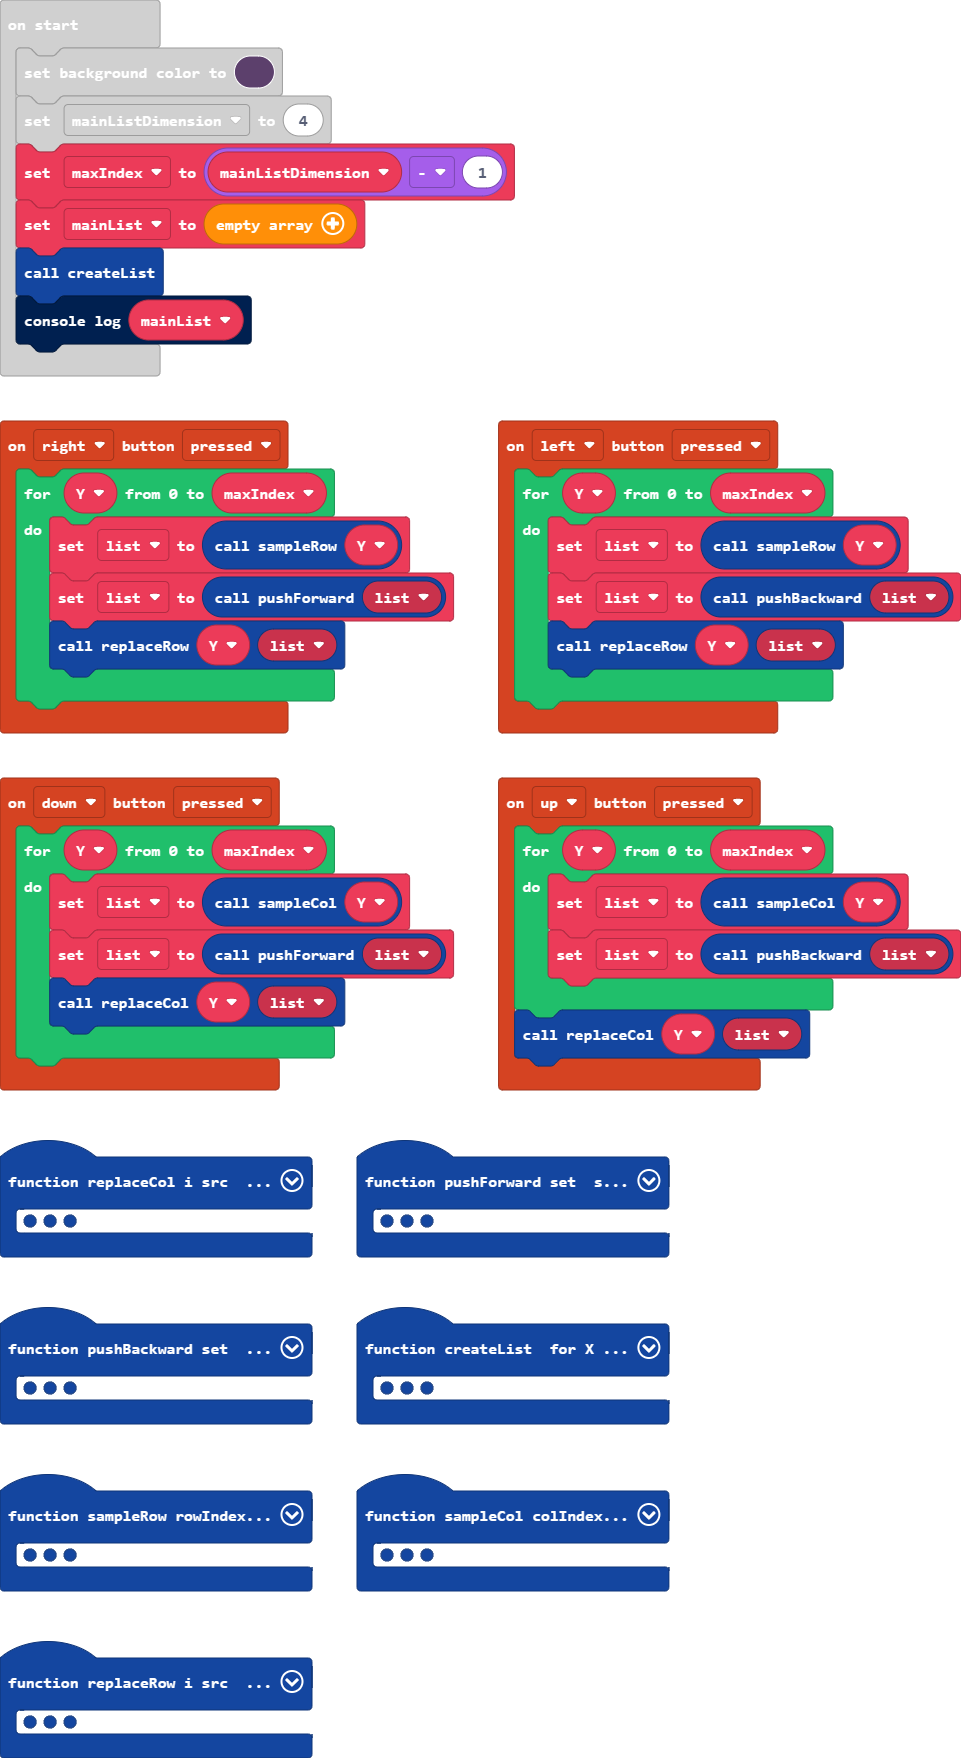
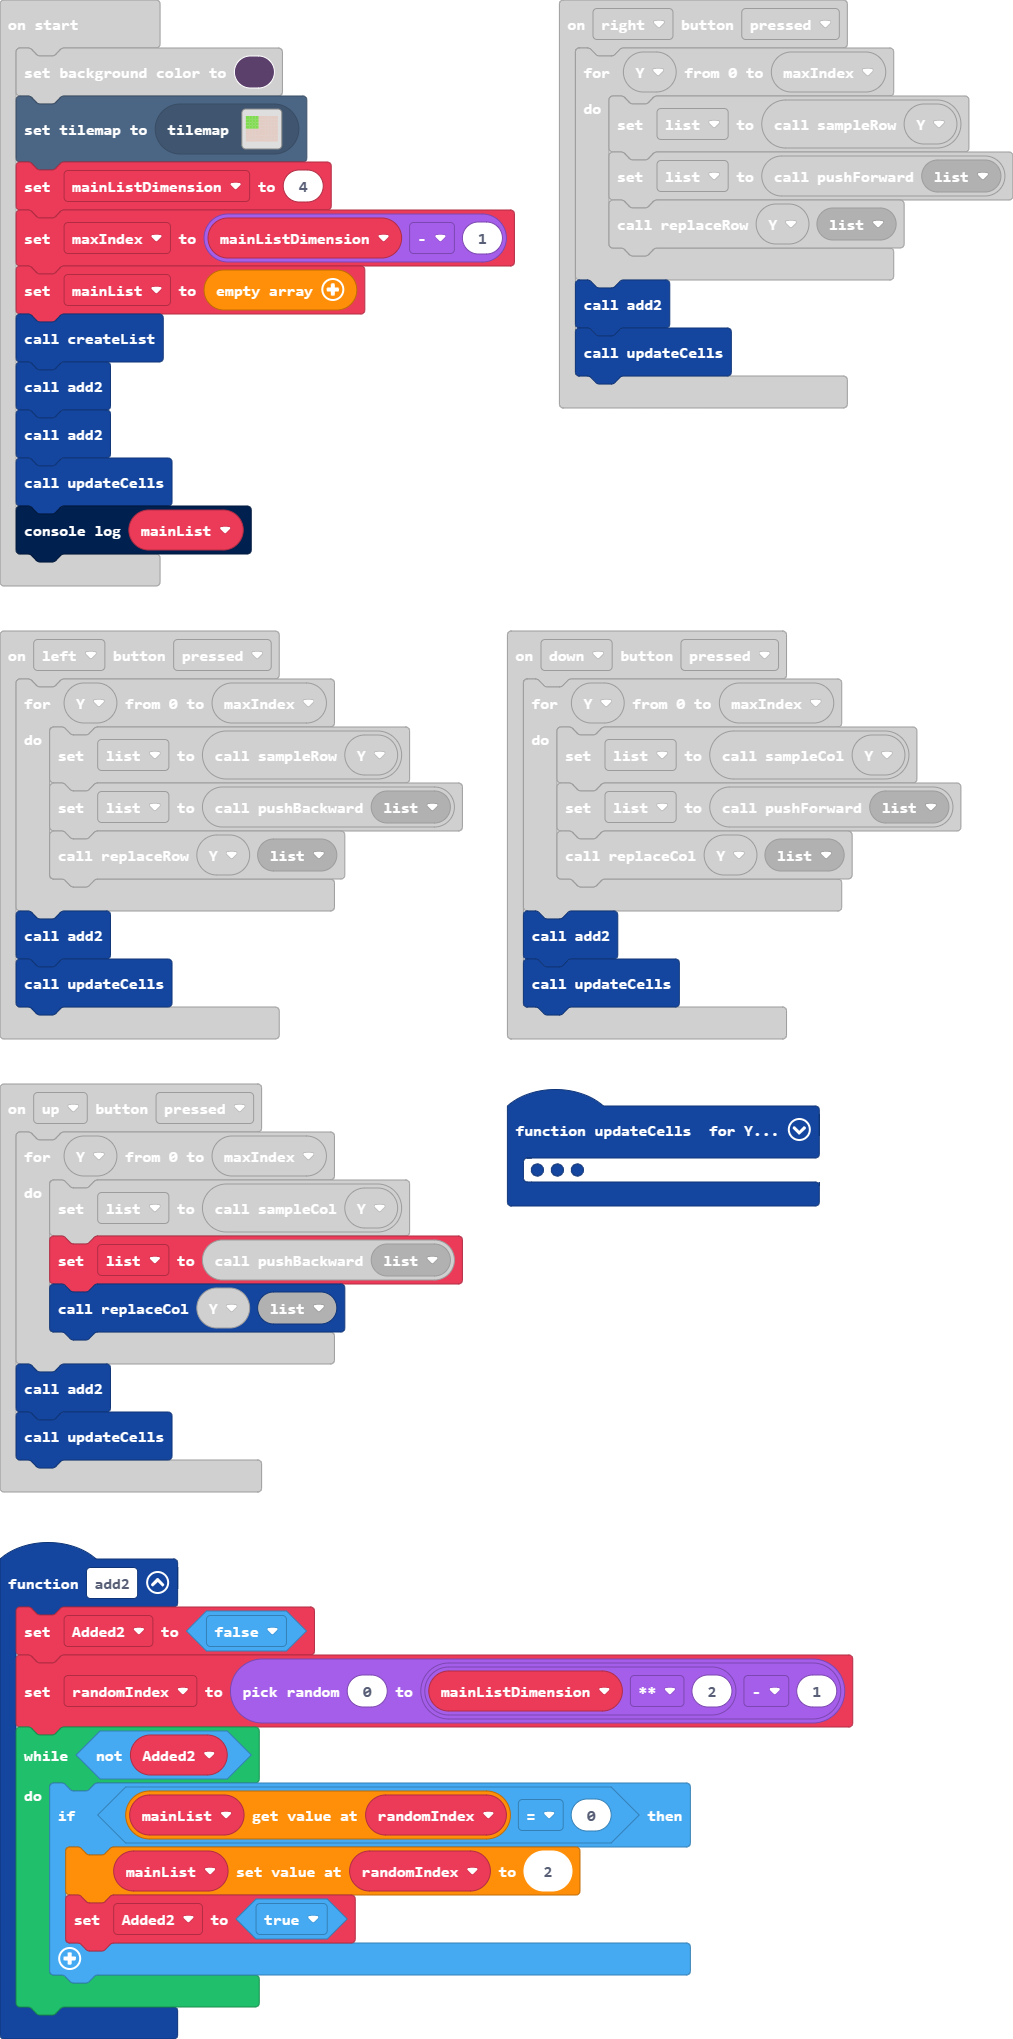
Update pxt.json, main.blocks, main.ts, tilemap.g.jres, tilemap.g.ts

diff --git a/main.ts b/main.ts
@@ -1,10 +1,11 @@
 controller.up.onEvent(ControllerButtonEvent.Pressed, function () {
-    let Y = 0
     for (let Y = 0; Y <= maxIndex; Y++) {
         list = sampleCol(Y)
         list = pushBackward(list)
+        replaceCol(Y, list)
     }
-    replaceCol(Y, list)
+    add2()
+    updateCells()
 })
 function replaceCol (i: number, src: number[]) {
     for (let Y = 0; Y <= maxIndex; Y++) {
@@ -43,6 +44,8 @@ controller.left.onEvent(ControllerButtonEvent.Pressed, function () {
         list = pushBackward(list)
         replaceRow(Y, list)
     }
+    add2()
+    updateCells()
 })
 function pushBackward (_set: number[]) {
     tmpSet = _set
@@ -79,14 +82,39 @@ controller.right.onEvent(ControllerButtonEvent.Pressed, function () {
         list = pushForward(list)
         replaceRow(Y, list)
     }
+    add2()
+    updateCells()
 })
+function add2 () {
+    Added2 = false
+    randomIndex = randint(0, mainListDimension ** 2 - 1)
+    while (!(Added2)) {
+        if (mainList[randomIndex] == 0) {
+            mainList[randomIndex] = 2
+            Added2 = true
+        }
+    }
+}
 controller.down.onEvent(ControllerButtonEvent.Pressed, function () {
     for (let Y = 0; Y <= maxIndex; Y++) {
         list = sampleCol(Y)
         list = pushForward(list)
         replaceCol(Y, list)
     }
+    add2()
+    updateCells()
 })
+function updateCells () {
+    for (let Y0 = 0; Y0 <= maxIndex; Y0++) {
+        for (let X0 = 0; X0 <= maxIndex; X0++) {
+            textSprite = textsprite.create(convertToText(mainList[Y0 * mainListDimension + X0]), 1, 15)
+            tiles.placeOnTile(textSprite, tiles.getTileLocation(X0, Y0))
+        }
+    }
+}
+let textSprite: TextSprite = null
+let randomIndex = 0
+let Added2 = false
 let cell = 0
 let zerosToAdd = 0
 let Merged = false
@@ -98,8 +126,12 @@ let mainList: number[] = []
 let maxIndex = 0
 let mainListDimension = 0
 scene.setBackgroundColor(12)
+tiles.setCurrentTilemap(tilemap`level1`)
 mainListDimension = 4
 maxIndex = mainListDimension - 1
 mainList = []
 createList()
+add2()
+add2()
+updateCells()
 console.log(mainList)

diff --git a/tilemap.g.ts b/tilemap.g.ts
@@ -1,0 +1,31 @@
+// Auto-generated code. Do not edit.
+namespace myTiles {
+    //% fixedInstance jres blockIdentity=images._tile
+    export const transparency16 = image.ofBuffer(hex``);
+
+    helpers._registerFactory("tilemap", function(name: string) {
+        switch(helpers.stringTrim(name)) {
+            case "level1":
[1 lines of base64/hex data omitted]
+. . . . . . . . . . 
+. . . . . . . . . . 
+. . . . . . . . . . 
+. . . . . . . . . . 
+. . . . . . . . . . 
+. . . . . . . . . . 
+. . . . . . . . . . 
+. . . . . . . . . . 
+`, [myTiles.transparency16,sprites.castle.tilePath5,sprites.castle.tileGrass1], TileScale.Sixteen);
+        }
+        return null;
+    })
+
+    helpers._registerFactory("tile", function(name: string) {
+        switch(helpers.stringTrim(name)) {
+            case "transparency16":return transparency16;
+        }
+        return null;
+    })
+
+}
+// Auto-generated code. Do not edit.
